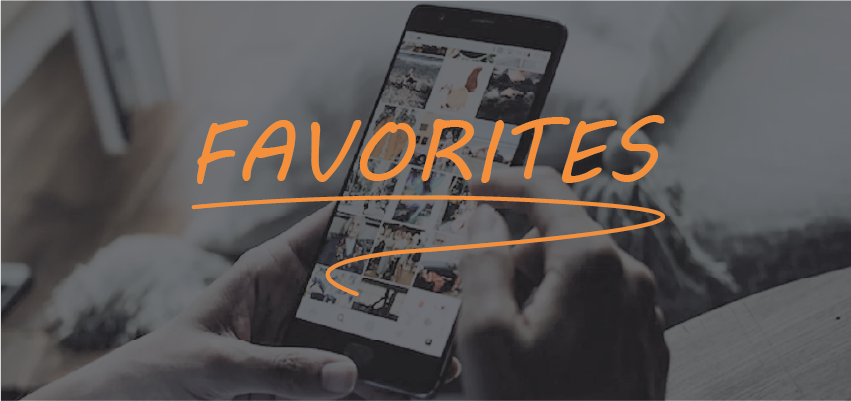
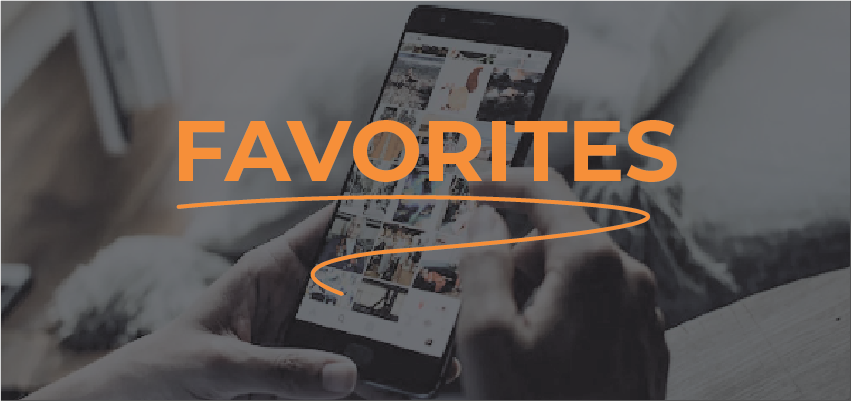
quick changes
replaced images to match typeface

diff --git a/index.html b/index.html
@@ -58,13 +58,13 @@ body {font-family: "Montserrat", sans-serif}
           <div class='blue-column'>
             <h2>Your Posts</h2>
           </div>
-          <img src="images/your_posts.png" class="posts">
+          <img src="images/your_posts_1.png" class="posts">
         </div>
         <div class='column'>
           <div class='green-column'>
             <h2>Events Around You</h2>
           </div>
-          <img src="images/events_around.png" class="events">
+          <img src="images/EVENTS.png" class="events">
         </div>
       </div>
     </div>
@@ -82,7 +82,7 @@ body {font-family: "Montserrat", sans-serif}
           <div class='green-column'>
             <h2>Trending</h2>
           </div>
-          <img src="images/trending.jpg" class="events">
+          <img src="images/trending.png" class="events">
         </div>
       </div>
     </div>

diff --git a/index.css b/index.css
@@ -94,7 +94,7 @@ color: white;
   flex-direction: row;
   flex-wrap: wrap;
   margin-top: 15px;
-  margin-left: 75px;
+  margin-left: 55px;
 }
 
 .column {
@@ -106,11 +106,11 @@ color: white;
 }
 
 .posts {
-  width: 850px;
+  width: 800px;
   height: 400px;
 }
 
 .events {
-  width: 850px;
+  width: 800px;
   height: 400px;
 }
